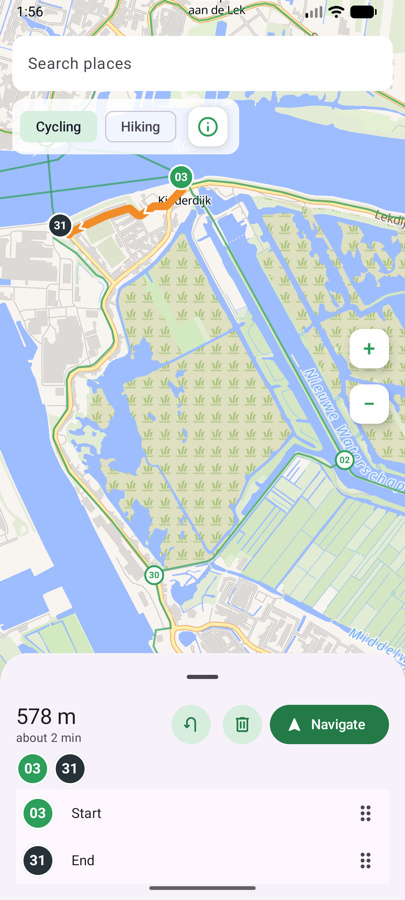
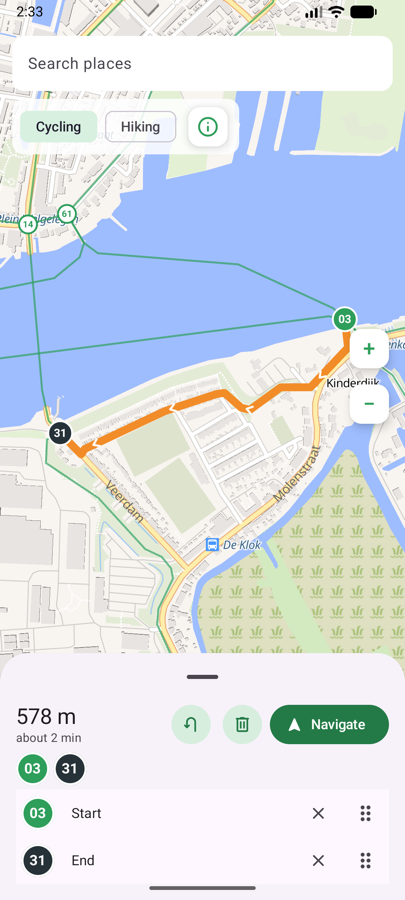
Remove buttons also with only start and end
Claude-Session: https://claude.ai/code/session_01SYDZ2V6weU9MCdAiePKvUW

diff --git a/modules/core/src/commonTest/kotlin/com/knoopbyknoop/core/PlanningTest.kt b/modules/core/src/commonTest/kotlin/com/knoopbyknoop/core/PlanningTest.kt
@@ -9,7 +9,6 @@ import com.knoopbyknoop.core.TestNetwork.knot99
 import kotlin.random.Random
 import kotlin.test.Test
 import kotlin.test.assertEquals
-import kotlin.test.assertFailsWith
 import kotlin.test.assertFalse
 import kotlin.test.assertNull
 import kotlin.test.assertSame
@@ -210,11 +209,26 @@ class PlanningTest {
   }
 
   @Test
-  fun `two waypoints can only be cleared`() {
+  fun `removing one of two waypoints`() {
     val planned = session.tapAll(knot12, knot45)
 
-    assertFalse(planned.canRemoveWaypoints)
-    assertFailsWith<IllegalArgumentException> { planned.removeWaypoint(1) }
+    val removed = planned.removeWaypoint(1)
+
+    assertTrue(planned.canRemoveWaypoints)
+    assertEquals(listOf(knot12), removed.waypoints)
+    assertNull(removed.route)
+    assertEquals(RouteDescription.StartOnly("12"), MapFeatures.describe(removed))
+    assertEquals(listOf(knot12, knot30), removed.tap(knot30).waypoints, "the next tap sets the end")
+  }
+
+  @Test
+  fun `removing the start of two waypoints`() {
+    assertEquals(listOf(knot45), session.tapAll(knot12, knot45).removeWaypoint(0).waypoints)
+  }
+
+  @Test
+  fun `removing the only waypoint`() {
+    assertEquals(listOf(), session.tapAll(knot12).removeWaypoint(0).waypoints)
   }
 
   @Test

diff --git a/modules/core/src/commonMain/kotlin/com/knoopbyknoop/core/PlanningSession.kt b/modules/core/src/commonMain/kotlin/com/knoopbyknoop/core/PlanningSession.kt
@@ -16,9 +16,12 @@ private constructor(
 
   val network: NetworkType = requireNotNull(graph.network) { "Cannot plan on an empty network" }
 
-  /** Waypoints can be removed unless exactly two are left; then the route can only be cleared. */
+  /**
+   * Any waypoint can be removed; removing one of the last two leaves the other as the start, see
+   * `map-planning` "Edit the waypoint list".
+   */
   val canRemoveWaypoints: Boolean
-    get() = waypoints.size != 2
+    get() = waypoints.isNotEmpty()
 
   /** Whether [returnToStart] can turn the route into a round trip. */
   val canReturnToStart: Boolean
@@ -47,8 +50,9 @@ private constructor(
     if (route == null) this else withRoute(route.moveWaypoint(from, to))
 
   fun removeWaypoint(position: Int): PlanningSession {
-    require(canRemoveWaypoints) { "A route keeps two waypoints; clear it instead" }
-    return if (route == null) copy(listOf(), route = null)
+    require(position in waypoints.indices) { "No waypoint at $position" }
+    val remaining = waypoints.filterIndexed { index, _ -> index != position }
+    return if (route == null || remaining.size < 2) copy(remaining, route = null)
     else withRoute(route.removeWaypoint(position))
   }
 

diff --git a/openspec/changes/show-waypoint-handles/design.md b/openspec/changes/show-waypoint-handles/design.md
@@ -16,12 +16,15 @@ See `proposal.md` for why. Android `WaypointList` (`PlannerScreen.kt`) moves a r
 ## Decisions
 
 ### Android: handle and × in the row
-The row gets, at its end, a remove `IconButton` (Material Symbols "close", only when `canRemove`) and a drag handle (Material Symbols "drag_indicator") in a 48 dp touch target. The handle gets `detectDragGestures` without the long press, sharing the existing drag state and the same swap logic; the long-press drag on the whole row stays. TalkBack: the row gets `customActions` "Move up" / "Move down" (where possible) and "Remove" (where allowed), and the handle and the × are labeled "Move 30" and "Remove 30".
+The row gets, at its end, a remove `IconButton` (Material Symbols "close") and a drag handle (Material Symbols "drag_indicator") in a 48 dp touch target. The handle gets `detectDragGestures` without the long press, sharing the existing drag state and the same swap logic; the long-press drag on the whole row stays. TalkBack: the row gets `customActions` "Move up" / "Move down" (where possible) and "Remove" (where allowed), and the handle and the × are labeled "Move 30" and "Remove 30".
 *Alternative:* a library for reorderable lists. A dependency for what the existing drag code already does.
 
 ### iOS: the list's own edit mode
-The waypoint `List` is always in edit mode while planning (`.environment(\.editMode, .constant(.active))`), which shows the system's reorder grip on every row and the red remove control where `onDelete` is allowed (`deleteDisabled` with two waypoints). That is how iOS shows these affordances everywhere, and VoiceOver offers moving and deleting on such rows by itself. Rows stay at 44 pt; the badge and role move right by the remove control's width.
+The waypoint `List` is always in edit mode while planning (`.environment(\.editMode, .constant(.active))`), which shows the system's reorder grip on every row and the red remove control where `onDelete` is allowed. That is how iOS shows these affordances everywhere, and VoiceOver offers moving and deleting on such rows by itself. Rows stay at 44 pt; the badge and role move right by the remove control's width.
 *Alternative:* a custom handle and × as on Android. It would fight the `List`'s own gestures.
+
+### Removing one of two waypoints
+Found in the iPhone check: with only start and end, the remove controls were hidden, as `PlanningSession` only allowed clearing two waypoints. Removing one of them now leaves the other as the start (no route), as after the first tap; the planner then asks for the end. `canRemoveWaypoints` is true whenever there is a waypoint.
 
 ## Risks / Trade-offs
 

diff --git a/openspec/changes/show-waypoint-handles/manual-checks.md b/openspec/changes/show-waypoint-handles/manual-checks.md
@@ -10,14 +10,18 @@ Android checked 2026-10-31 on the emulator (`Medium_Phone_API_37.0`) with the ro
 | Moving by the handle | ✅ | ⏳ | A plain swipe on the handle of 30 up by one row, without holding: 03, 30, 02, 31 |
 | Long press still moves | ✅ | ⏳ | Press on the row of 02 for one second, then drag up: 03, 02, 30, 31 |
 | Remove | ✅ | ⏳ | × of 30: 03, 02, 31, each row still with × |
-| No remove button with two waypoints | ✅ | ⏳ | × of 02: 03, 31, without × ([screenshot](screenshots/android-two-waypoints.png)) |
+| Removing one of two waypoints | ✅ | ⏳ | 03 → 31: both rows with × ([screenshot](screenshots/android-two-waypoints.png)); × of 31: "Start at 03, tap a knot to set the end", 03 left ([screenshot](screenshots/android-one-of-two-removed.png)) |
 | Reordering with a screen reader | set, not observed | ⏳ | `uiautomator dump` shows the labels "Move 03" and "Remove 02" on handle and ×; the row's custom actions "Move up", "Move down", "Remove" are set in the semantics, but `uiautomator` does not list custom actions and the project has no UI tests to trigger them |
 
 ### iOS steps for the maintainer
 
 1. Plan a route with four waypoints and expand the sheet: every row shows the reorder grip (≡) on the right and the red remove control on the left.
 2. Drag a grip: the waypoint moves, the route follows.
-3. Tap a remove control and confirm: the waypoint is gone. With two waypoints left, no remove control.
+3. Tap a remove control and confirm: the waypoint is gone. With only start and end, both still show the remove control; removing the end leaves the start, and the next tap sets a new end.
 4. VoiceOver on a row: the actions (swipe up/down) offer moving and deleting.
 5. A route with a ferry while planning: tapping a ferry row still expands it, and its website link still works (the list is in edit mode now).
 6. While navigating, the waypoint list stays hidden as before.
+
+### Found and fixed
+
+- iPhone: with only start and end, the remove controls were hidden, as two waypoints could only be cleared together. Removing one of them now leaves the other as the start.

diff --git a/openspec/changes/show-waypoint-handles/specs/map-planning/spec.md b/openspec/changes/show-waypoint-handles/specs/map-planning/spec.md
@@ -3,7 +3,7 @@
 ## MODIFIED Requirements
 
 ### Requirement: Edit the waypoint list
-The app SHALL list the waypoints in order. The user SHALL be able to move any waypoint to another position and to remove waypoints as long as two remain. Each row SHALL show a drag handle for moving and, while waypoints may be removed, a remove button, so neither depends on a hidden gesture; screen readers SHALL offer moving up, moving down and removing as actions on the row.
+The app SHALL list the waypoints in order. The user SHALL be able to move any waypoint to another position and to remove any waypoint; removing one of the last two SHALL leave the other as the start. Each row SHALL show a drag handle for moving and a remove button, so neither depends on a hidden gesture; screen readers SHALL offer moving up, moving down and removing as actions on the row.
 
 #### Scenario: Reorder
 - **WHEN** the waypoints are 12, 30, 7, 45 and the user moves 7 above 30
@@ -33,9 +33,9 @@ The app SHALL list the waypoints in order. The user SHALL be able to move any wa
 - **WHEN** the waypoints are 12, 30 and 45
 - **THEN** each row shows a remove button, and tapping the one of 30 leaves 12, 45
 
-#### Scenario: No remove button with two waypoints
-- **WHEN** only the waypoints 12 and 45 are left
-- **THEN** the rows show no remove button
+#### Scenario: Removing one of two waypoints
+- **WHEN** only the waypoints 12 and 45 are left and the user removes 45
+- **THEN** 12 is left as the start, and the next tap sets the end
 
 #### Scenario: Reordering with a screen reader
 - **WHEN** a screen reader (TalkBack, VoiceOver) is on the row of 30, the second of 12, 30, 45

diff --git a/openspec/changes/show-waypoint-handles/proposal.md b/openspec/changes/show-waypoint-handles/proposal.md
@@ -7,7 +7,7 @@ An Android tester did not find out that the waypoints can be reordered: "Hatte k
 ## What Changes
 
 - Every waypoint row shows a drag handle (≡) at its end. Dragging the handle moves the waypoint right away; a long press anywhere on the row keeps working.
-- Every row shows a remove button (×) while waypoints may be removed (more than two); swiping keeps working.
+- Every row shows a remove button (×), also with only two waypoints: removing one of them leaves the other as the start (until now, two waypoints could only be cleared together). Swiping keeps working.
 - Screen readers get "Move up", "Move down" and "Remove" as actions on each row, as dragging is not possible with them.
 
 Out of scope:
@@ -26,4 +26,4 @@ Out of scope:
 
 - `apps/android` `PlannerScreen.kt` (`WaypointList`), new drawables for the handle and the remove icon
 - `apps/ios` `PlannerView.swift` (`WaypointSheet`)
-- No change to the core: moving and removing exist already
+- `modules/core` `PlanningSession`: removing one of two waypoints

diff --git a/openspec/changes/show-waypoint-handles/tasks.md b/openspec/changes/show-waypoint-handles/tasks.md
@@ -13,6 +13,10 @@
 
 - [x] 3.1 `./gradlew check` and `npx @fission-ai/openspec validate --all` pass; CHANGELOG entry under "Unreleased"
 
+## 4. Removing one of two waypoints
+
+- [x] 4.1 `PlanningSession` removes one of two waypoints, leaving the other as the start; the remove buttons and controls show with two waypoints; verified by `PlanningTest` "Removing one of two waypoints", "Removing the start of two waypoints", "Removing the only waypoint", on the emulator ("Removing one of two waypoints"), and iOS builds
+
 ## Workflow follow-up
 
 - The maintainer checks iOS on the iPhone before `/opsx:archive show-waypoint-handles`.
